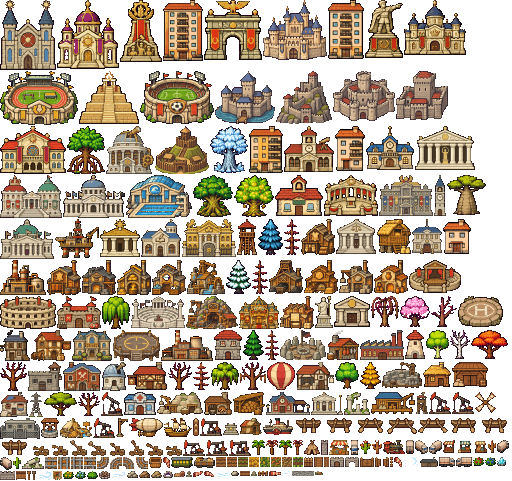
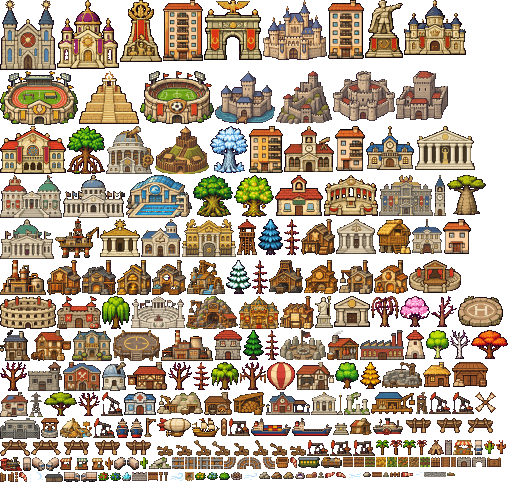
Bloque 3 · Carguero: descubrimiento «el transporte en contenedores»; con el puerto grande, cargueros que salen hasta los topes con lo que sobra hacia un puerto amigo, descargan (se ven vacíos), cobran y vuelven con lo que al otro le sobra; traen el petróleo de las plataformas del mar; con bandera, e

diff --git a/js/arte_mapa.js b/js/arte_mapa.js
@@ -1,2 +1,2 @@
 // World Sim · Mapa del atlas de arte (generado: no editar a mano). clave: [x, y, ancho, alto, ancla x, llamas?]
-const ART_MAP = {"house:hut":[423,362,28,25,14],"house:piedra":[214,330,28,30,14],"well:pozo":[41,418,18,20,9],"store:almacen":[452,362,36,25,18],"tower:torre":[237,219,20,36,10],"hall:ayuntamiento":[366,126,48,44,24],"market:mercado":[443,440,44,13,22],"bank:banco":[334,296,36,31,18],"hospital:hospital":[124,392,32,23,16],"school:escuela":[275,175,48,41,24],"tavern:taberna":[127,362,40,28,20],"theater:teatro":[409,260,52,33,26],"coliseum:coliseo":[0,296,56,33,28],"barracks:cuartel":[57,296,44,33,22],"tradehall:lonja":[371,392,44,22,22],"quarry:cantera":[157,392,46,23,23],"temple:templo":[100,219,40,38,20],"obelisk:monumento":[315,296,18,32,9],"cathedral:catedral":[0,0,56,70,28],"cathedral:panteon":[415,126,60,44,30],"wonder:republica":[324,175,54,41,27],"wonder:monarquia":[404,0,62,55,31],"wonder:dictadura":[365,0,38,58,19],"wonder:comunismo":[120,0,42,62,21],"wonder:fascismo":[204,0,58,60,29],"wonder:socialismo":[0,126,66,48,33],"wonder:teocracia":[57,0,62,69,31],"altar:altar":[223,418,16,17,8,[5,0,6,6]],"cathedral:zigurat":[79,71,60,53,30,[24,1,12,13]],"forge:herreria":[204,392,28,23,14,[14,17,9,3]],"mill:molino":[405,330,20,29,10],"mill:aspas":[475,392,21,21,10],"oak:forest":[335,362,24,27,12],"oak:forest:bare":[168,362,24,28,12],"pine:pine":[243,330,21,30,10],"pine:pine:bare":[265,330,14,30,7],"pine:snow":[226,260,25,34,12],"pine:snow:bare":[252,260,16,34,8],"acacia:dry":[44,392,33,24,16],"acacia:dry:bare":[78,392,22,24,11],"birch:birch":[426,330,23,29,11],"birch:birch:bare":[450,330,20,29,10],"pine:blue":[258,219,25,36,12],"pine:blue:bare":[284,219,16,36,8],"willow:swamp":[102,296,28,33,14],"willow:swamp:bare":[371,296,28,31,14],"palm:palm":[252,440,13,15,6],"palm:palm:bare":[266,440,12,15,6],"palm:coco":[279,440,13,15,6],"palm:coco:bare":[293,440,10,15,5],"oak:cherry":[400,296,30,31,15],"oak:cherry:bare":[431,296,26,31,13],"pine:autumn":[360,362,21,27,10],"pine:autumn:bare":[193,362,17,28,8],"acacia:sunset":[471,330,37,29,18],"acacia:sunset:bare":[0,362,27,29,13],"willow:moss":[211,362,28,28,14],"willow:moss:bare":[240,362,26,28,13],"cactus:cactus":[13,457,8,12,4],"cactus:cactus:bare":[488,440,8,13,4],"cactus:bloom":[360,440,11,14,5],"cactus:bloom:bare":[372,440,10,14,5],"ancient:elder":[193,175,40,42,20],"ancient:frost":[210,126,38,47,19],"ancient:baobab":[447,175,39,40,19],"ancient:mangrove":[67,126,38,48,19],"ancient:life":[234,175,40,42,20],"bush:red":[473,457,11,9,5],"bush:blueb":[485,457,11,9,5],"bush:goldb":[63,471,11,8,5],"bush:moon":[75,471,11,8,5],"bush:empty":[87,471,11,8,5],"rock:stone":[231,471,8,5,4],"big:stone":[127,471,11,7,5],"ore:iron":[139,471,11,7,5],"ore:gold":[151,471,11,7,5],"gem:amethyst":[163,471,10,7,5],"gem:mana":[497,457,9,9,4],"fire:camp":[99,471,11,8,5],"camp:tienda":[304,440,16,15,8],"camp:estera":[174,471,11,6,5],"boat:0":[294,418,30,16,15],"boat:1":[325,418,30,16,15],"boat:2":[356,418,30,16,15],"boat:3":[387,418,30,16,15],"boat:4":[418,418,30,16,15],"boat:5":[449,418,30,16,15],"boat:6":[480,418,30,16,15],"boat:7":[0,440,30,16,15],"catapult:0":[31,440,18,16,9],"catapult:1":[50,440,18,16,9],"catapult:2":[69,440,18,16,9],"catapult:3":[88,440,18,16,9],"catapult:4":[107,440,18,16,9],"catapult:5":[126,440,18,16,9],"catapult:6":[145,440,18,16,9],"catapult:7":[164,440,18,16,9],"tex:arada":[216,457,10,10,5],"tex:sembrado":[227,457,10,10,5],"tex:brotes":[238,457,10,10,5],"tex:trigo":[249,457,10,10,5],"tex:maiz":[260,457,10,10,5],"tex:mijo":[271,457,10,10,5],"tex:muerta":[282,457,10,10,5],"tex:huerta":[293,457,10,10,5],"tex:empalizada_h":[304,457,9,10,4],"tex:empalizada_v":[193,418,6,18,3],"tex:piedra_h":[0,471,15,9,7],"tex:piedra_v":[321,440,7,15,3],"tex:puente_h":[16,471,10,9,5],"tex:puente_v":[314,457,9,10,4],"tex:puente_h5":[240,471,10,5,5],"tex:puente_v5":[324,457,5,10,2],"gate:piedra":[330,457,14,10,7],"gate:piedra_abierta":[345,457,14,10,7],"gate:madera":[360,457,14,10,7],"gate:madera_abierta":[375,457,14,10,7],"tumba:lapida":[251,471,6,5,3],"tumba:flores":[315,471,8,4,4],"tumba:estela":[186,471,6,6,3],"tex:valla_h":[258,471,10,5,5],"tex:valla_v":[390,457,3,10,1],"antorcha:encendida":[27,471,4,9,2],"antorcha:apagada":[32,471,4,9,2],"balloon:globo":[267,362,28,28,14],"balloon:cesta":[149,457,13,11,6],"aero:pista":[458,296,45,31,22],"aero:palo":[116,418,12,19,2],"sock:0":[269,471,12,5,0],"sock:1":[193,471,10,6,0],"sock:2":[204,471,10,6,0],"sock:3":[394,457,8,10,0],"sock:4":[163,457,7,11,0],"wind:0":[282,471,9,5,4],"wind:1":[215,471,15,6,7],"wind:2":[111,471,15,8,7],"wind:3":[37,471,15,9,7],"wind:4":[403,457,16,10,8],"court:tribunal":[336,219,40,35,20],"jail:carcel":[28,362,34,29,17],"press:imprenta":[296,362,38,28,19],"union:sindicato":[63,362,38,29,19],"parliament:parlamento":[0,219,54,40,27],"academy:academia":[141,219,40,38,20],"wonder:democracia":[131,296,54,33,27],"wonder:partitocracia":[379,175,54,41,27],"wonder:monarquia_parlamentaria":[0,175,62,43,31],"wonder:oligarquia":[182,219,54,38,27],"wonder:tecnocracia":[106,126,48,48,24],"wonder:anarquia":[280,330,46,30,23],"mine:mina":[186,296,52,33,26],"university:universidad":[284,126,50,46,25],"council:consejo":[63,175,62,43,31],"spy:espias":[0,330,30,31,15],"granary:granero":[377,219,34,35,17],"smoke:ahumadero":[327,330,32,30,16],"woodshed:lenera":[233,392,32,23,16],"post:postas":[31,330,40,31,20],"house:mansion":[72,330,40,31,20],"house:chabola":[240,418,22,17,11],"sport:futbol":[140,71,74,53,37],"sport:natacion":[126,175,66,43,33],"sport:atletismo":[0,71,78,54,39],"station:estacion":[266,392,44,23,22],"factory:fabrica":[360,330,44,30,22],"clock:reloj":[434,175,12,41,6],"observatory:observatorio":[102,362,24,29,12],"embassy:embajada":[311,392,32,23,16],"ruin:ruinas_a":[344,392,26,23,13],"ruin:ruinas_b":[22,457,22,12,11],"train:locomotora":[383,440,22,14,11],"train:vagon_p":[171,457,22,11,11],"train:vagon_m":[194,457,21,11,10],"airship:dirigible":[129,418,34,19,17],"ship:galeon":[164,418,28,19,14],"ship:vapor":[263,418,30,17,15],"tex:carretera":[292,471,22,5,11],"rail:h":[45,457,12,12,6],"rail:v":[58,457,12,12,6],"rail:x":[71,457,12,12,6],"rail:t":[84,457,12,12,6],"rail:nw":[97,457,12,12,6],"rail:se":[110,457,12,12,6],"rail:sw":[123,457,12,12,6],"rail:ne":[136,457,12,12,6],"fair:puesto":[329,440,20,15,10],"camp:oro":[60,418,32,20,16],"civic:registro":[412,219,30,35,15],"camp:centro":[0,418,40,21,20],"camp:cantera":[382,362,40,26,20],"camp:barracon":[420,457,18,10,9],"camp:torre":[416,392,12,22,6],"house:okupada":[0,392,28,25,14],"aero:plataforma":[113,330,47,31,23],"house:bloque1":[443,219,28,35,14],"house:bloque2":[335,126,30,45,15],"house:bloque3":[249,126,34,47,17],"house:bloque4":[328,0,36,59,18],"house:bloque5":[163,0,40,61,20],"okupa:ventana":[53,471,9,9,4],"pylon:torre":[29,392,14,25,7],"power:central":[161,330,52,31,26],"oil:pozo0":[183,440,22,16,11],"oil:pozo1":[93,418,22,20,11],"oil:pozo2":[429,392,22,22,11],"oil:pozo3":[101,392,22,24,11],"oil:pozo4":[452,392,22,22,11],"oil:pozo5":[200,418,22,18,11],"oil:pozo6":[206,440,22,16,11],"oil:pozo7":[229,440,22,16,11],"oil:plataforma":[55,219,44,39,22],"oil:refineria":[0,260,46,35,23],"truck:n":[406,440,8,14,4],"truck:ne":[497,440,12,13,6],"truck:e":[439,457,16,10,8],"truck:se":[415,440,13,14,6],"truck:s":[350,440,9,15,4],"truck:so":[429,440,13,14,6],"truck:o":[456,457,16,10,8],"truck:no":[0,457,12,13,6],"casino:casino":[239,296,40,33,20],"fac:textil":[280,296,34,33,17],"fac:curtiduria":[47,260,34,35,17],"fac:hierro":[82,260,34,35,17],"fac:carbon":[269,260,34,34,17],"fac:aserradero":[304,260,34,34,17],"fac:cantera":[339,260,34,34,17],"fac:peleteria":[301,219,34,36,17],"fac:oro":[117,260,34,35,17],"fac:alfareria":[374,260,34,34,17],"fac:joyeria":[152,260,34,35,17],"pump:extractora":[187,260,38,35,19],"castle:empalizada":[155,126,54,48,27],"castle:torre":[396,71,52,49,26],"castle:concentrico":[333,71,62,50,31],"castle:foso":[215,71,60,53,30],"castle:roca":[276,71,56,53,28],"castle:palacio":[263,0,64,60,32]};
+const ART_MAP = {"house:hut":[423,362,28,25,14],"house:piedra":[214,330,28,30,14],"well:pozo":[41,418,18,20,9],"store:almacen":[452,362,36,25,18],"tower:torre":[237,219,20,36,10],"hall:ayuntamiento":[366,126,48,44,24],"market:mercado":[60,457,44,13,22],"bank:banco":[334,296,36,31,18],"hospital:hospital":[124,392,32,23,16],"school:escuela":[275,175,48,41,24],"tavern:taberna":[127,362,40,28,20],"theater:teatro":[409,260,52,33,26],"coliseum:coliseo":[0,296,56,33,28],"barracks:cuartel":[57,296,44,33,22],"tradehall:lonja":[371,392,44,22,22],"quarry:cantera":[157,392,46,23,23],"temple:templo":[100,219,40,38,20],"obelisk:monumento":[315,296,18,32,9],"cathedral:catedral":[0,0,56,70,28],"cathedral:panteon":[415,126,60,44,30],"wonder:republica":[324,175,54,41,27],"wonder:monarquia":[404,0,62,55,31],"wonder:dictadura":[365,0,38,58,19],"wonder:comunismo":[120,0,42,62,21],"wonder:fascismo":[204,0,58,60,29],"wonder:socialismo":[0,126,66,48,33],"wonder:teocracia":[57,0,62,69,31],"altar:altar":[333,418,16,17,8,[5,0,6,6]],"cathedral:zigurat":[79,71,60,53,30,[24,1,12,13]],"forge:herreria":[204,392,28,23,14,[14,17,9,3]],"mill:molino":[405,330,20,29,10],"mill:aspas":[475,392,21,21,10],"oak:forest":[335,362,24,27,12],"oak:forest:bare":[168,362,24,28,12],"pine:pine":[243,330,21,30,10],"pine:pine:bare":[265,330,14,30,7],"pine:snow":[226,260,25,34,12],"pine:snow:bare":[252,260,16,34,8],"acacia:dry":[44,392,33,24,16],"acacia:dry:bare":[78,392,22,24,11],"birch:birch":[426,330,23,29,11],"birch:birch:bare":[450,330,20,29,10],"pine:blue":[258,219,25,36,12],"pine:blue:bare":[284,219,16,36,8],"willow:swamp":[102,296,28,33,14],"willow:swamp:bare":[371,296,28,31,14],"palm:palm":[376,440,13,15,6],"palm:palm:bare":[390,440,12,15,6],"palm:coco":[403,440,13,15,6],"palm:coco:bare":[417,440,10,15,5],"oak:cherry":[400,296,30,31,15],"oak:cherry:bare":[431,296,26,31,13],"pine:autumn":[360,362,21,27,10],"pine:autumn:bare":[193,362,17,28,8],"acacia:sunset":[471,330,37,29,18],"acacia:sunset:bare":[0,362,27,29,13],"willow:moss":[211,362,28,28,14],"willow:moss:bare":[240,362,26,28,13],"cactus:cactus":[140,457,8,12,4],"cactus:cactus:bare":[105,457,8,13,4],"cactus:bloom":[484,440,11,14,5],"cactus:bloom:bare":[496,440,10,14,5],"ancient:elder":[193,175,40,42,20],"ancient:frost":[210,126,38,47,19],"ancient:baobab":[447,175,39,40,19],"ancient:mangrove":[67,126,38,48,19],"ancient:life":[234,175,40,42,20],"bush:red":[98,472,11,9,5],"bush:blueb":[110,472,11,9,5],"bush:goldb":[195,472,11,8,5],"bush:moon":[207,472,11,8,5],"bush:empty":[219,472,11,8,5],"rock:stone":[363,472,8,5,4],"big:stone":[259,472,11,7,5],"ore:iron":[271,472,11,7,5],"ore:gold":[283,472,11,7,5],"gem:amethyst":[295,472,10,7,5],"gem:mana":[122,472,9,9,4],"fire:camp":[231,472,11,8,5],"camp:tienda":[428,440,16,15,8],"camp:estera":[306,472,11,6,5],"boat:0":[404,418,30,16,15],"boat:1":[435,418,30,16,15],"boat:2":[466,418,30,16,15],"boat:3":[0,440,30,16,15],"boat:4":[31,440,30,16,15],"boat:5":[62,440,30,16,15],"boat:6":[93,440,30,16,15],"boat:7":[124,440,30,16,15],"catapult:0":[155,440,18,16,9],"catapult:1":[174,440,18,16,9],"catapult:2":[193,440,18,16,9],"catapult:3":[212,440,18,16,9],"catapult:4":[231,440,18,16,9],"catapult:5":[250,440,18,16,9],"catapult:6":[269,440,18,16,9],"catapult:7":[288,440,18,16,9],"tex:arada":[343,457,10,10,5],"tex:sembrado":[354,457,10,10,5],"tex:brotes":[365,457,10,10,5],"tex:trigo":[376,457,10,10,5],"tex:maiz":[387,457,10,10,5],"tex:mijo":[398,457,10,10,5],"tex:muerta":[409,457,10,10,5],"tex:huerta":[420,457,10,10,5],"tex:empalizada_h":[431,457,9,10,4],"tex:empalizada_v":[221,418,6,18,3],"tex:piedra_h":[132,472,15,9,7],"tex:piedra_v":[445,440,7,15,3],"tex:puente_h":[148,472,10,9,5],"tex:puente_v":[441,457,9,10,4],"tex:puente_h5":[372,472,10,5,5],"tex:puente_v5":[451,457,5,10,2],"gate:piedra":[457,457,14,10,7],"gate:piedra_abierta":[472,457,14,10,7],"gate:madera":[487,457,14,10,7],"gate:madera_abierta":[0,472,14,10,7],"tumba:lapida":[383,472,6,5,3],"tumba:flores":[447,472,8,4,4],"tumba:estela":[318,472,6,6,3],"tex:valla_h":[390,472,10,5,5],"tex:valla_v":[15,472,3,10,1],"antorcha:encendida":[159,472,4,9,2],"antorcha:apagada":[164,472,4,9,2],"balloon:globo":[267,362,28,28,14],"balloon:cesta":[276,457,13,11,6],"aero:pista":[458,296,45,31,22],"aero:palo":[144,418,12,19,2],"sock:0":[401,472,12,5,0],"sock:1":[325,472,10,6,0],"sock:2":[336,472,10,6,0],"sock:3":[19,472,8,10,0],"sock:4":[290,457,7,11,0],"wind:0":[414,472,9,5,4],"wind:1":[347,472,15,6,7],"wind:2":[243,472,15,8,7],"wind:3":[169,472,15,9,7],"wind:4":[28,472,16,10,8],"court:tribunal":[336,219,40,35,20],"jail:carcel":[28,362,34,29,17],"press:imprenta":[296,362,38,28,19],"union:sindicato":[63,362,38,29,19],"parliament:parlamento":[0,219,54,40,27],"academy:academia":[141,219,40,38,20],"wonder:democracia":[131,296,54,33,27],"wonder:partitocracia":[379,175,54,41,27],"wonder:monarquia_parlamentaria":[0,175,62,43,31],"wonder:oligarquia":[182,219,54,38,27],"wonder:tecnocracia":[106,126,48,48,24],"wonder:anarquia":[280,330,46,30,23],"mine:mina":[186,296,52,33,26],"university:universidad":[284,126,50,46,25],"council:consejo":[63,175,62,43,31],"spy:espias":[0,330,30,31,15],"granary:granero":[377,219,34,35,17],"smoke:ahumadero":[327,330,32,30,16],"woodshed:lenera":[233,392,32,23,16],"post:postas":[31,330,40,31,20],"house:mansion":[72,330,40,31,20],"house:chabola":[350,418,22,17,11],"sport:futbol":[140,71,74,53,37],"sport:natacion":[126,175,66,43,33],"sport:atletismo":[0,71,78,54,39],"station:estacion":[266,392,44,23,22],"factory:fabrica":[360,330,44,30,22],"clock:reloj":[434,175,12,41,6],"observatory:observatorio":[102,362,24,29,12],"embassy:embajada":[311,392,32,23,16],"ruin:ruinas_a":[344,392,26,23,13],"ruin:ruinas_b":[149,457,22,12,11],"train:locomotora":[0,457,22,14,11],"train:vagon_p":[298,457,22,11,11],"train:vagon_m":[321,457,21,11,10],"airship:dirigible":[157,418,34,19,17],"ship:galeon":[192,418,28,19,14],"ship:vapor":[373,418,30,17,15],"tex:carretera":[424,472,22,5,11],"rail:h":[172,457,12,12,6],"rail:v":[185,457,12,12,6],"rail:x":[198,457,12,12,6],"rail:t":[211,457,12,12,6],"rail:nw":[224,457,12,12,6],"rail:se":[237,457,12,12,6],"rail:sw":[250,457,12,12,6],"rail:ne":[263,457,12,12,6],"fair:puesto":[453,440,20,15,10],"camp:oro":[60,418,32,20,16],"civic:registro":[412,219,30,35,15],"camp:centro":[0,418,40,21,20],"camp:cantera":[382,362,40,26,20],"camp:barracon":[45,472,18,10,9],"camp:torre":[416,392,12,22,6],"house:okupada":[0,392,28,25,14],"aero:plataforma":[113,330,47,31,23],"house:bloque1":[443,219,28,35,14],"house:bloque2":[335,126,30,45,15],"house:bloque3":[249,126,34,47,17],"house:bloque4":[328,0,36,59,18],"house:bloque5":[163,0,40,61,20],"okupa:ventana":[185,472,9,9,4],"pylon:torre":[29,392,14,25,7],"power:central":[161,330,52,31,26],"oil:pozo0":[307,440,22,16,11],"oil:pozo1":[93,418,22,20,11],"oil:pozo2":[429,392,22,22,11],"oil:pozo3":[101,392,22,24,11],"oil:pozo4":[452,392,22,22,11],"oil:pozo5":[228,418,22,18,11],"oil:pozo6":[330,440,22,16,11],"oil:pozo7":[353,440,22,16,11],"oil:plataforma":[55,219,44,39,22],"oil:refineria":[0,260,46,35,23],"truck:n":[23,457,8,14,4],"truck:ne":[114,457,12,13,6],"truck:e":[64,472,16,10,8],"truck:se":[32,457,13,14,6],"truck:s":[474,440,9,15,4],"truck:so":[46,457,13,14,6],"truck:o":[81,472,16,10,8],"truck:no":[127,457,12,13,6],"cargo:lleno":[251,418,40,18,20],"cargo:vacio":[292,418,40,18,20],"cargo:lleno_f":[116,418,13,20,6],"cargo:vacio_f":[130,418,13,20,6],"casino:casino":[239,296,40,33,20],"fac:textil":[280,296,34,33,17],"fac:curtiduria":[47,260,34,35,17],"fac:hierro":[82,260,34,35,17],"fac:carbon":[269,260,34,34,17],"fac:aserradero":[304,260,34,34,17],"fac:cantera":[339,260,34,34,17],"fac:peleteria":[301,219,34,36,17],"fac:oro":[117,260,34,35,17],"fac:alfareria":[374,260,34,34,17],"fac:joyeria":[152,260,34,35,17],"pump:extractora":[187,260,38,35,19],"castle:empalizada":[155,126,54,48,27],"castle:torre":[396,71,52,49,26],"castle:concentrico":[333,71,62,50,31],"castle:foso":[215,71,60,53,30],"castle:roca":[276,71,56,53,28],"castle:palacio":[263,0,64,60,32]};

diff --git a/index.html b/index.html
@@ -6,7 +6,7 @@
 <meta name="claude:viewport-fit-sides" content="cover">
 <link rel="preconnect" href="https://fonts.googleapis.com">
 <link rel="stylesheet" href="https://fonts.googleapis.com/css2?family=Pixelify+Sans:wght@400;600&family=Nunito+Sans:wght@400;600;700&display=swap">
-<link rel="stylesheet" href="css/estilo.css?v=202611252102">
+<link rel="stylesheet" href="css/estilo.css?v=202611252113">
 
 <div class="app">
   <section class="stage" id="stage">
@@ -187,90 +187,91 @@
 </div>
 
 <!-- El juego, en el orden en que se carga -->
-<script src="js/nucleo.js?v=202611252102"></script>
-<script src="js/mundo.js?v=202611252102"></script>
-<script src="js/vista.js?v=202611252102"></script>
-<script src="js/clima.js?v=202611252102"></script>
-<script src="js/fauna.js?v=202611252102"></script>
-<script src="js/desastres.js?v=202611252102"></script>
-<script src="js/mapas.js?v=202611252102"></script>
-<script src="js/humanos.js?v=202611252102"></script>
-<script src="js/partidas.js?v=202611252102"></script>
-<script src="js/vida.js?v=202611252102"></script>
-<script src="js/sociedad.js?v=202611252102"></script>
-<script src="js/impuestos.js?v=202611252102"></script>
-<script src="js/presupuestos.js?v=202611252102"></script>
-<script src="js/bolsa.js?v=202611252102"></script>
-<script src="js/vivienda.js?v=202611252102"></script>
-<script src="js/cartografia.js?v=202611252102"></script>
-<script src="js/convivencia.js?v=202611252102"></script>
-<script src="js/credos.js?v=202611252102"></script>
-<script src="js/tratados.js?v=202611252102"></script>
-<script src="js/globos.js?v=202611252102"></script>
-<script src="js/idiomas.js?v=202611252102"></script>
-<script src="js/regimenes.js?v=202611252102"></script>
-<script src="js/instituciones.js?v=202611252102"></script>
-<script src="js/monedas.js?v=202611252102"></script>
-<script src="js/minas.js?v=202611252102"></script>
-<script src="js/justicia.js?v=202611252102"></script>
-<script src="js/sindicatos.js?v=202611252102"></script>
-<script src="js/prensa.js?v=202611252102"></script>
-<script src="js/ciencia.js?v=202611252102"></script>
-<script src="js/consejo.js?v=202611252102"></script>
-<script src="js/espionaje.js?v=202611252102"></script>
-<script src="js/comercio.js?v=202611252102"></script>
-<script src="js/piratas.js?v=202611252102"></script>
-<script src="js/colonias.js?v=202611252102"></script>
-<script src="js/cultura.js?v=202611252102"></script>
-<script src="js/anexiones.js?v=202611252102"></script>
-<script src="js/lluvia.js?v=202611252102"></script>
-<script src="js/estaciones.js?v=202611252102"></script>
-<script src="js/bandidos.js?v=202611252102"></script>
-<script src="js/riqueza.js?v=202611252102"></script>
-<script src="js/noticias.js?v=202611252102"></script>
-<script src="js/defensa.js?v=202611252102"></script>
-<script src="js/trabajo.js?v=202611252102"></script>
-<script src="js/arte_mapa.js?v=202611252102"></script>
-<script src="js/arte.js?v=202611252102"></script>
-<script src="js/vegetacion.js?v=202611252102"></script>
-<script src="js/aldeanos.js?v=202611252102"></script>
-<script src="js/sonido.js?v=202611252102"></script>
-<script src="js/interfaz.js?v=202611252102"></script>
-<script src="js/civilizacion.js?v=202611252102"></script>
-<script src="js/industria.js?v=202611252102"></script>
-<script src="js/ambiente.js?v=202611252102"></script>
-<script src="js/fama.js?v=202611252102"></script>
-<script src="js/guerra.js?v=202611252102"></script>
-<script src="js/rutas.js?v=202611252102"></script>
-<script src="js/rescate.js?v=202611252102"></script>
-<script src="js/deportes.js?v=202611252102"></script>
-<script src="js/leyes.js?v=202611252102"></script>
-<script src="js/volcanes.js?v=202611252102"></script>
-<script src="js/edificios.js?v=202611252102"></script>
-<script src="js/calendario.js?v=202611252102"></script>
-<script src="js/titulares.js?v=202611252102"></script>
-<script src="js/libro.js?v=202611252102"></script>
-<script src="js/papeles.js?v=202611252102"></script>
-<script src="js/documentos.js?v=202611252102"></script>
-<script src="js/okupas.js?v=202611252102"></script>
-<script src="js/potencias.js?v=202611252102"></script>
-<script src="js/casino.js?v=202611252102"></script>
-<script src="js/clases.js?v=202611252102"></script>
-<script src="js/ciudades.js?v=202611252102"></script>
-<script src="js/cultivos.js?v=202611252102"></script>
-<script src="js/devocion.js?v=202611252102"></script>
-<script src="js/visitas.js?v=202611252102"></script>
-<script src="js/islas.js?v=202611252102"></script>
-<script src="js/estrategia.js?v=202611252102"></script>
-<script src="js/castillos.js?v=202611252102"></script>
-<script src="js/fabricas.js?v=202611252102"></script>
-<script src="js/urbanismo.js?v=202611252102"></script>
-<script src="js/puertos.js?v=202611252102"></script>
-<script src="js/armas.js?v=202611252102"></script>
-<script src="js/arbolciencia.js?v=202611252102"></script>
-<script src="js/leyes2.js?v=202611252102"></script>
-<script src="js/electricidad.js?v=202611252102"></script>
-<script src="js/petroleo.js?v=202611252102"></script>
-<script src="js/pontones.js?v=202611252102"></script>
-<script src="js/grafica.js?v=202611252102"></script>
-<script src="js/ui.js?v=202611252102"></script>
+<script src="js/nucleo.js?v=202611252113"></script>
+<script src="js/mundo.js?v=202611252113"></script>
+<script src="js/vista.js?v=202611252113"></script>
+<script src="js/clima.js?v=202611252113"></script>
+<script src="js/fauna.js?v=202611252113"></script>
+<script src="js/desastres.js?v=202611252113"></script>
+<script src="js/mapas.js?v=202611252113"></script>
+<script src="js/humanos.js?v=202611252113"></script>
+<script src="js/partidas.js?v=202611252113"></script>
+<script src="js/vida.js?v=202611252113"></script>
+<script src="js/sociedad.js?v=202611252113"></script>
+<script src="js/impuestos.js?v=202611252113"></script>
+<script src="js/presupuestos.js?v=202611252113"></script>
+<script src="js/bolsa.js?v=202611252113"></script>
+<script src="js/vivienda.js?v=202611252113"></script>
+<script src="js/cartografia.js?v=202611252113"></script>
+<script src="js/convivencia.js?v=202611252113"></script>
+<script src="js/credos.js?v=202611252113"></script>
+<script src="js/tratados.js?v=202611252113"></script>
+<script src="js/globos.js?v=202611252113"></script>
+<script src="js/idiomas.js?v=202611252113"></script>
+<script src="js/regimenes.js?v=202611252113"></script>
+<script src="js/instituciones.js?v=202611252113"></script>
+<script src="js/monedas.js?v=202611252113"></script>
+<script src="js/minas.js?v=202611252113"></script>
+<script src="js/justicia.js?v=202611252113"></script>
+<script src="js/sindicatos.js?v=202611252113"></script>
+<script src="js/prensa.js?v=202611252113"></script>
+<script src="js/ciencia.js?v=202611252113"></script>
+<script src="js/consejo.js?v=202611252113"></script>
+<script src="js/espionaje.js?v=202611252113"></script>
+<script src="js/comercio.js?v=202611252113"></script>
+<script src="js/piratas.js?v=202611252113"></script>
+<script src="js/colonias.js?v=202611252113"></script>
+<script src="js/cultura.js?v=202611252113"></script>
+<script src="js/anexiones.js?v=202611252113"></script>
+<script src="js/lluvia.js?v=202611252113"></script>
+<script src="js/estaciones.js?v=202611252113"></script>
+<script src="js/bandidos.js?v=202611252113"></script>
+<script src="js/riqueza.js?v=202611252113"></script>
+<script src="js/noticias.js?v=202611252113"></script>
+<script src="js/defensa.js?v=202611252113"></script>
+<script src="js/trabajo.js?v=202611252113"></script>
+<script src="js/arte_mapa.js?v=202611252113"></script>
+<script src="js/arte.js?v=202611252113"></script>
+<script src="js/vegetacion.js?v=202611252113"></script>
+<script src="js/aldeanos.js?v=202611252113"></script>
+<script src="js/sonido.js?v=202611252113"></script>
+<script src="js/interfaz.js?v=202611252113"></script>
+<script src="js/civilizacion.js?v=202611252113"></script>
+<script src="js/industria.js?v=202611252113"></script>
+<script src="js/ambiente.js?v=202611252113"></script>
+<script src="js/fama.js?v=202611252113"></script>
+<script src="js/guerra.js?v=202611252113"></script>
+<script src="js/rutas.js?v=202611252113"></script>
+<script src="js/rescate.js?v=202611252113"></script>
+<script src="js/deportes.js?v=202611252113"></script>
+<script src="js/leyes.js?v=202611252113"></script>
+<script src="js/volcanes.js?v=202611252113"></script>
+<script src="js/edificios.js?v=202611252113"></script>
+<script src="js/calendario.js?v=202611252113"></script>
+<script src="js/titulares.js?v=202611252113"></script>
+<script src="js/libro.js?v=202611252113"></script>
+<script src="js/papeles.js?v=202611252113"></script>
+<script src="js/documentos.js?v=202611252113"></script>
+<script src="js/okupas.js?v=202611252113"></script>
+<script src="js/potencias.js?v=202611252113"></script>
+<script src="js/casino.js?v=202611252113"></script>
+<script src="js/clases.js?v=202611252113"></script>
+<script src="js/ciudades.js?v=202611252113"></script>
+<script src="js/cultivos.js?v=202611252113"></script>
+<script src="js/devocion.js?v=202611252113"></script>
+<script src="js/visitas.js?v=202611252113"></script>
+<script src="js/islas.js?v=202611252113"></script>
+<script src="js/estrategia.js?v=202611252113"></script>
+<script src="js/castillos.js?v=202611252113"></script>
+<script src="js/fabricas.js?v=202611252113"></script>
+<script src="js/urbanismo.js?v=202611252113"></script>
+<script src="js/puertos.js?v=202611252113"></script>
+<script src="js/armas.js?v=202611252113"></script>
+<script src="js/arbolciencia.js?v=202611252113"></script>
+<script src="js/leyes2.js?v=202611252113"></script>
+<script src="js/electricidad.js?v=202611252113"></script>
+<script src="js/petroleo.js?v=202611252113"></script>
+<script src="js/carguero.js?v=202611252113"></script>
+<script src="js/pontones.js?v=202611252113"></script>
+<script src="js/grafica.js?v=202611252113"></script>
+<script src="js/ui.js?v=202611252113"></script>

diff --git a/js/carguero.js b/js/carguero.js
@@ -1,0 +1,80 @@
+// World Sim · El barco carguero: comercio a lo grande por mar (y petróleo de las plataformas)
+// ================= Carguero =================
+// · Nuevo descubrimiento: «el transporte en contenedores» (vapor + electricidad)
+// · Solo con el puerto grande terminado: el pueblo tiene un carguero (uno, dos si pasa de 80 habitantes)
+// · Viajes de comercio: con algo que le sobra de verdad (comida, madera, piedra, combustible, agua embotellada) sale
+//   cargado hasta los topes hacia el puerto de un pueblo amigo; al llegar descarga (se ve vacío), cobra y vuelve con lo
+//   que al otro le sobra (o de vacío)
+// · Si tiene plataformas petroleras en el mar, el carguero va vacío y vuelve lleno de bidones (mucho más que un barco)
+// · Lleno se pinta con los contenedores; vacío, con la bodega a la vista. De lado o de frente según adónde vaya
+(() => { if (DISCOVERIES.some(d => d.k === 'contenedores')) return; const i = DISCOVERIES.findIndex(d => d.k === 'electricidad');
+  DISCOVERIES.splice(i + 1, 0, { k:'contenedores', txt:'el transporte en contenedores', cost:125, eff:'con un puerto grande, barcos cargueros: comercio por mar a lo grande', req:['vapor', 'electricidad'].filter(k => DISCOVERIES.some(d => d.k === k)) });
+  if (typeof SCI_REQ === 'object') SCI_REQ.contenedores = ['vapor', 'electricidad']; })();
+let cargos = [];
+const CARGO_GOODS = [['food', 'comida', g => Math.max(popOf(g) * 3, capOf(g) * .45)], ['wood', 'madera', g => capOf(g) * .45], ['stone', 'piedra', g => capOf(g) * .45], ['fuel', 'combustible', () => 10], ['bottles', 'agua embotellada', () => 30]]; // (lo que sobra: lo que pasa de casi la mitad del almacén)
+const cargoPort = g => { const L = g.port.launch; return [(L % W) * T + 2, ((L / W) | 0) * T + 3]; };
+const canCargo = g => g.port && g.bigPort && g.bigPort.done && knowsSci(g, 'contenedores') && popOf(g);
+function seaPath(a, b){
+  if (seaLine(a[0], a[1], b[0], b[1])) return [b];
+  const r = seaRoute(seaFrom(a[0], a[1]), seaFrom(b[0], b[1])); if (!r) return null;
+  return thinRoute(a[0], a[1], [...r, b], (x0, y0, x1, y1) => seaLine(x0, y0, x1, y1));
+}
+let cargoT = 0;
+SYSTEMS.push(dt => {
+  if (!world || (cargoT -= dt) > 0) return; cargoT = 3;
+  for (const g of liveTowns()) {
+    if (!canCargo(g) || cargos.filter(c => c.g === g.id).length >= (popOf(g) > 80 ? 2 : 1) || (g.cargoT || 0) > yearT) continue;
+    const from = cargoPort(g);
+    // Petróleo de sus plataformas
+    const plat = typeof oilDeposits === 'function' ? oilDeposits().find(d => d.sea && d.owner === g.id && (d.stock || 0) >= 20 && !cargos.some(c => c.d === d)) : null;
+    if (plat) { const to = [(plat.i % W) * T + 2, ((plat.i / W) | 0) * T + 3 + T], p = seaPath(from, to); if (p) { cargos.push({ g:g.id, d:plat, kind:'petroleo', pts:p, back:null, k:0, x:from[0], y:from[1], full:false, phase:'ida', home:from }); g.cargoT = yearT + 20; continue; } }
+    // Comercio: lo que le sobra, a un pueblo amigo con puerto
+    const sell = CARGO_GOODS.map(([k, n, keep]) => [k, n, (g[k] || 0) - keep(g)]).filter(x => x[2] > 12).sort((a, b) => b[2] - a[2])[0]; if (!sell) continue;
+    const mates = liveTowns().filter(o => o !== g && o.port && (() => { const r = rels.get(relKey(g, o)); return r && r.known && !r.war && r.v > 0; })()).sort((a, b) => Math.hypot(a.fx - g.fx, a.fy - g.fy) - Math.hypot(b.fx - g.fx, b.fy - g.fy));
+    for (const o of mates.slice(0, 3)) {
+      const to = cargoPort(o), p = seaPath(from, to); if (!p) continue;
+      const n = Math.min(Math.floor(sell[2]), 80); g[sell[0]] -= n;
+      cargos.push({ g:g.id, to:o.id, kind:'comercio', good:sell[0], gname:sell[1], n, pts:p, k:0, x:from[0], y:from[1], full:true, phase:'ida', home:from });
+      g.cargoT = yearT + 30;
+      if (!g.cargoMsg) { g.cargoMsg = true; notify(`Zarpa el primer carguero de ${g.name}, hasta los topes de ${sell[1]} para ${o.name}`, { x:from[0], y:from[1] }); }
+      break;
+    }
+  }
+});
+SYSTEMS.push(dt => {
+  if (!cargos.length) return;
+  for (const c of cargos) {
+    const g = villageById(c.g); if (!g || !popOf(g)) { c.done = true; continue; }
+    if (c.wait > 0) { c.wait -= dt; continue; }
+    const tgt = c.pts[c.k];
+    if (!tgt) { // fin de tramo
+      if (c.phase === 'ida') {
+        if (c.kind === 'petroleo') { const q = Math.min(c.d.stock || 0, 60); c.d.stock -= q; c.load = q; c.full = true; }
+        else { const o = villageById(c.to); if (o && popOf(o)) { o[c.good] = (o[c.good] || 0) + c.n; const eg = ecOf(g), eo = ecOf(o); if (eg && eo) { const pay = Math.round(c.n * .6); eo.treas -= pay; eg.treas += pay; } const r = rels.get(relKey(g, o)); if (r) r.v = Math.min(100, r.v + 1);
+            // y vuelve con lo que al otro le sobra
+            const back = CARGO_GOODS.map(([k, n, keep]) => [k, n, (o[k] || 0) - keep(o)]).filter(x => x[2] > 20 && x[0] !== c.good).sort((a, b) => b[2] - a[2])[0];
+            c.full = false; if (back) { const n = Math.min(Math.floor(back[2]), 60); o[back[0]] -= n; c.backGood = back[0]; c.backN = n; c.full = true; } } }
+        c.phase = 'vuelta'; c.wait = 4; c.pts = seaPath([c.x, c.y], c.home) || [c.home]; c.k = 0; continue;
+      }
+      if (c.kind === 'petroleo') g.oilStock = (g.oilStock || 0) + (c.load || 0);
+      else if (c.backGood) g[c.backGood] = (g[c.backGood] || 0) + c.backN;
+      c.done = true; continue;
+    }
+    const sp = 22 * dt, dx = tgt[0] - c.x, dy = tgt[1] - c.y, d = Math.hypot(dx, dy);
+    if (d <= sp) { c.x = tgt[0]; c.y = tgt[1]; c.k++; } else { c.x += dx / d * sp; c.y += dy / d * sp; c.dx = dx / d; c.dy = dy / d; }
+  }
+  cargos = cargos.filter(c => !c.done);
+});
+function drawCargos(now){
+  const [x0, y0, x1, y1] = visibleRect();
+  for (const c of cargos) {
+    if (c.x < x0 - 40 || c.x > x1 + 40 || c.y < y0 - 30 || c.y > y1 + 30) continue;
+    const front = (c.dy || 0) > .6, s = artFrame(`cargo:${c.full ? 'lleno' : 'vacio'}${front ? '_f' : ''}`); if (!s) continue;
+    const left = !front && (c.dx || 1) < 0, bob = Math.round(Math.sin(now / 500 + c.x) * .5), x = Math.round(c.x), y = Math.round(c.y) + bob;
+    vctx.fillStyle = 'rgba(0,0,0,.22)'; vctx.fillRect(x - (s.width >> 1), y + 1, s.width, 2);
+    if (left) { vctx.save(); vctx.translate(x, 0); vctx.scale(-1, 1); vctx.drawImage(s, -s.ax, y - s.height + 4); vctx.restore(); } else vctx.drawImage(s, x - s.ax, y - s.height + 4);
+    vctx.fillStyle = 'rgba(235,248,255,.6)'; if (c.wait <= 0 || c.wait == null) for (let k = 0; k < 4; k++) vctx.fillRect(x - (left ? -1 : 1) * ((s.width >> 1) + 2 + k * 3), y + 1 + (k % 2), 2, 1); // estela
+    const g = villageById(c.g), n = g && nationOf(g); if (n && !front) { const fx = left ? x + (s.width >> 1) - 6 : x - (s.width >> 1) + 5, fy = y - s.height + 2; vctx.fillStyle = '#3a3a3a'; vctx.fillRect(fx, fy, 1, 5); if (n.flag) for (let a = 0; a < 4; a++) for (let b = 0; b < 3; b++) { vctx.fillStyle = flagColor(n.flag, (a + .5) / 4, (b + .5) / 3); vctx.fillRect(fx + 1 + a, fy + b, 1, 1); } }
+  }
+}
+{ const base = drawInstFlags; drawInstFlags = function(t){ base.apply(this, arguments); drawCargos(performance.now()); }; }

diff --git a/js/humanos.js b/js/humanos.js
@@ -37,7 +37,7 @@ const houseRoom = i => { const k = world.objs[i] && world.objs[i].key; return k 
 const houseCap = g => housesOf(g).reduce((a, i) => a + houseRoom(i), 0);
 // Casas de piedra que pueden pasar a bloque de pisos: las más cercanas a la plaza primero
 // Bloques de pisos: de 2 a 6 plantas (house:bloque1..5); cuánto se puede subir depende de la técnica
-const BLOQUE_ROOM = { 'house:bloque1':10, 'house:bloque2':14, 'house:bloque3':18, 'house:bloque4':22, 'house:bloque5':26, 'house:bloque':14 };
+const BLOQUE_ROOM = { 'house:bloque1':12, 'house:bloque2':18, 'house:bloque3':24, 'house:bloque4':30, 'house:bloque5':36, 'house:bloque':18 };
 const bloqueTier = k => k === 'house:piedra' ? 0 : k && k.startsWith('house:bloque') ? +(k.slice(12) || 2) : -1;
 const bloqueMax = g => Math.min(5, (knowsSci(g, 'dirigible') ? 5 : knowsSci(g, 'ferrocarril') ? 4 : 3) + (hasLaw(g, 'edificacion_altura') ? 1 : 0)); // (con la ley de edificación en altura, una planta más)
 // Casas que pueden ganar una planta (de piedra a bloque, o un bloque que sube): las más cercanas a la plaza primero

diff --git a/js/petroleo.js b/js/petroleo.js
@@ -81,7 +81,8 @@ SYSTEMS.push(dt => {
     for (const d of D) {
       if (d.owner !== g.id || (d.stock || 0) < 8 || oilRuns.some(t => t.d === d)) continue;
       const a = [(g.refinery % W) * T + 2, ((g.refinery / W) | 0) * T + 3 + T * 2], b = [(d.i % W) * T + 2, ((d.i / W) | 0) * T + 3 + T];
-      if (d.sea) { if (!g.port) continue; const L = g.port.launch, pa = [(L % W) * T + 2, ((L / W) | 0) * T + 3]; oilRuns.push({ g:g.id, d, sea:true, pts:[pa, b], back:[b, pa], k:0, x:pa[0], y:pa[1], load:0, phase:'ida', drop:a }); }
+      if (d.sea) { if (!g.port || (typeof canCargo === 'function' && canCargo(g))) continue; // (con carguero, lo trae el carguero: carguero.js)
+        const L = g.port.launch, pa = [(L % W) * T + 2, ((L / W) | 0) * T + 3]; oilRuns.push({ g:g.id, d, sea:true, pts:[pa, b], back:[b, pa], k:0, x:pa[0], y:pa[1], load:0, phase:'ida', drop:a }); }
       else { const r = landRoute(a[0], a[1], b[0], b[1]); if (!r) continue; oilRuns.push({ g:g.id, d, sea:false, pts:[a, ...r], k:0, x:a[0], y:a[1], load:0, phase:'ida' }); }
     }
   }

diff --git a/js/arte.js b/js/arte.js
@@ -9,7 +9,7 @@ const ART = { img:null, ready:false, cache:new Map() };
   if (typeof ART_MAP === 'undefined') return;
   const im = new Image();
   im.onload = () => { ART.img = im; ART.ready = true; ART.cache.clear(); if (typeof world !== 'undefined' && world && typeof composeRegion === 'function') composeRegion(0, 0, W - 1, H - 1); };
-  im.src = 'arte/atlas.png?v=202611252102';
+  im.src = 'arte/atlas.png?v=202611252113';
 })();
 const ART_DECID = new Set(['oak:forest', 'birch:birch', 'willow:swamp', 'willow:moss', 'acacia:dry', 'acacia:sunset', 'oak:cherry', 'pine:autumn']);
 const ART_EVER = new Set(['pine:pine', 'pine:snow', 'pine:blue', 'ancient:elder', 'ancient:mangrove', 'ancient:life', 'ancient:baobab']);

diff --git a/herramientas/atlas.py b/herramientas/atlas.py
@@ -271,6 +271,11 @@ if os.path.exists(os.path.join(SRC, 'camion.png')):  # el camión, en 8 direccio
                       ('s', (665, 630, 870, 960), 9), ('so', (150, 620, 440, 940), 13), ('o', (115, 365, 470, 600), 16), ('no', (175, 40, 435, 330), 12)]:
         add(f'truck:{d}', shrink(box_parts('camion.png', box), w, 40))
 
+if os.path.exists(os.path.join(SRC, 'barcoCarguero.png')):  # el carguero: lleno y vacío, de lado (proa a la derecha) y de frente
+    S9 = 1.086
+    for k, box, w in [('lleno', (60, 30, 730, 345), 40), ('vacio', (770, 30, 1445, 345), 40), ('lleno_f', (1490, 160, 1715, 505), 13), ('vacio_f', (1740, 160, 1965, 505), 13)]:
+        add(f'cargo:{k}', shrink(box_parts('barcoCarguero.png', tuple(int(c * S9) for c in box)), w, 40))
+
 if os.path.exists(os.path.join(SRC, 'casino.png')):
     add('casino:casino', shrink(box_parts('casino.png', (380, 190, 1150, 830)), 40, 48))
 
